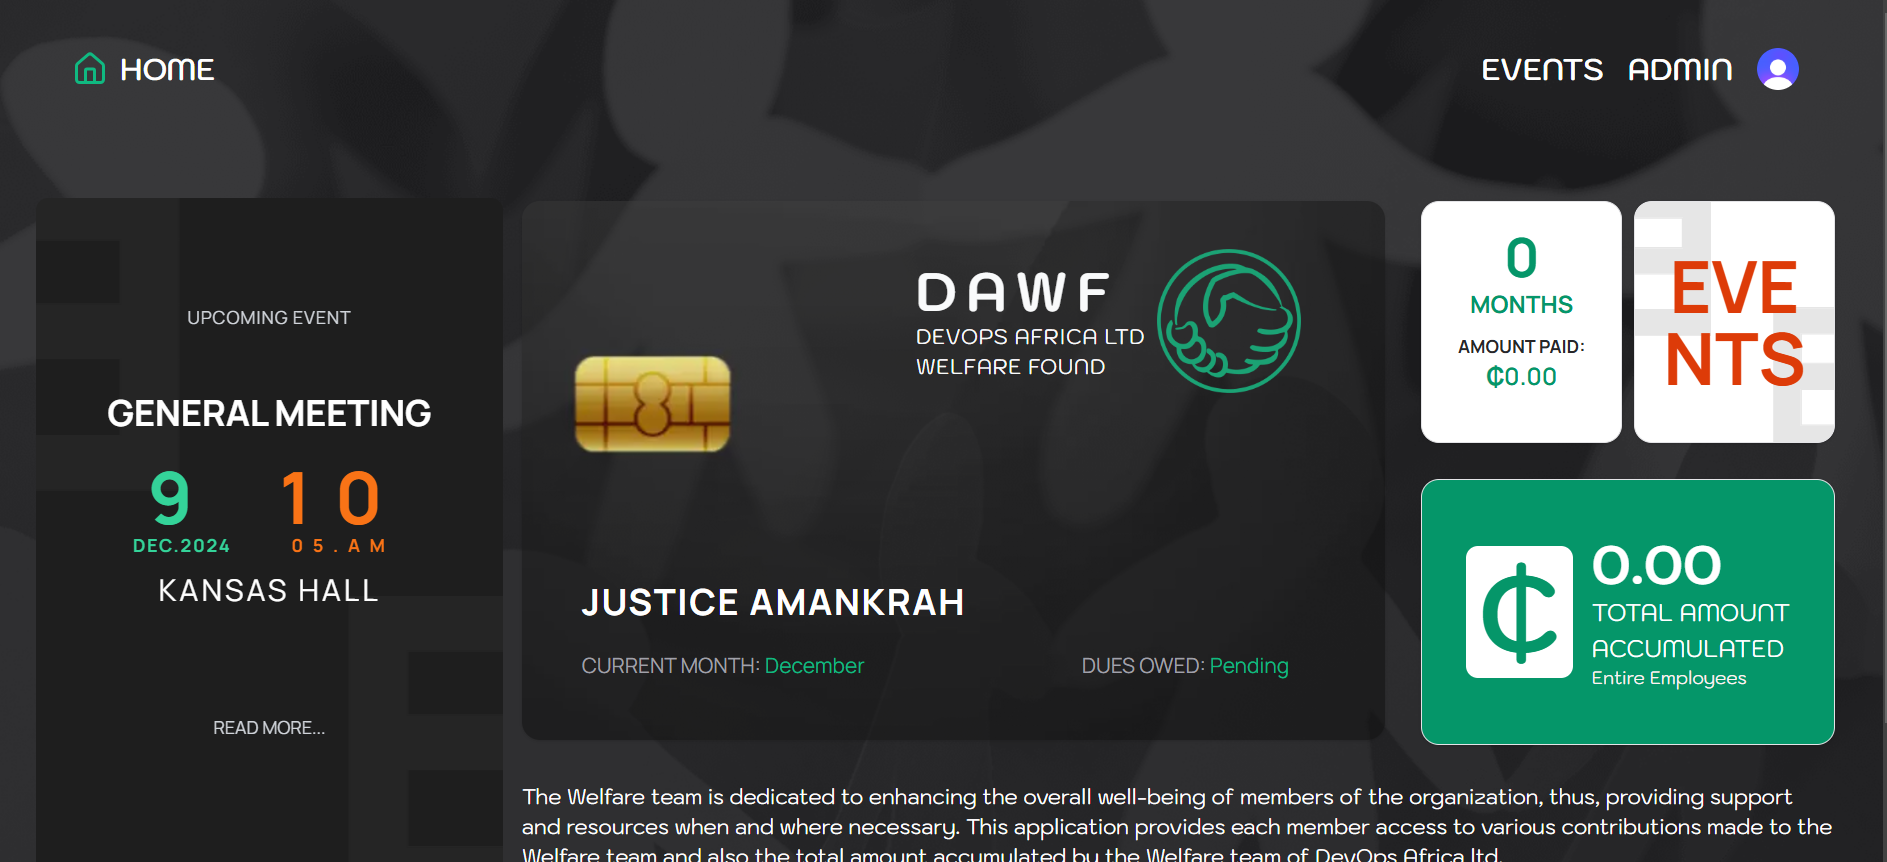
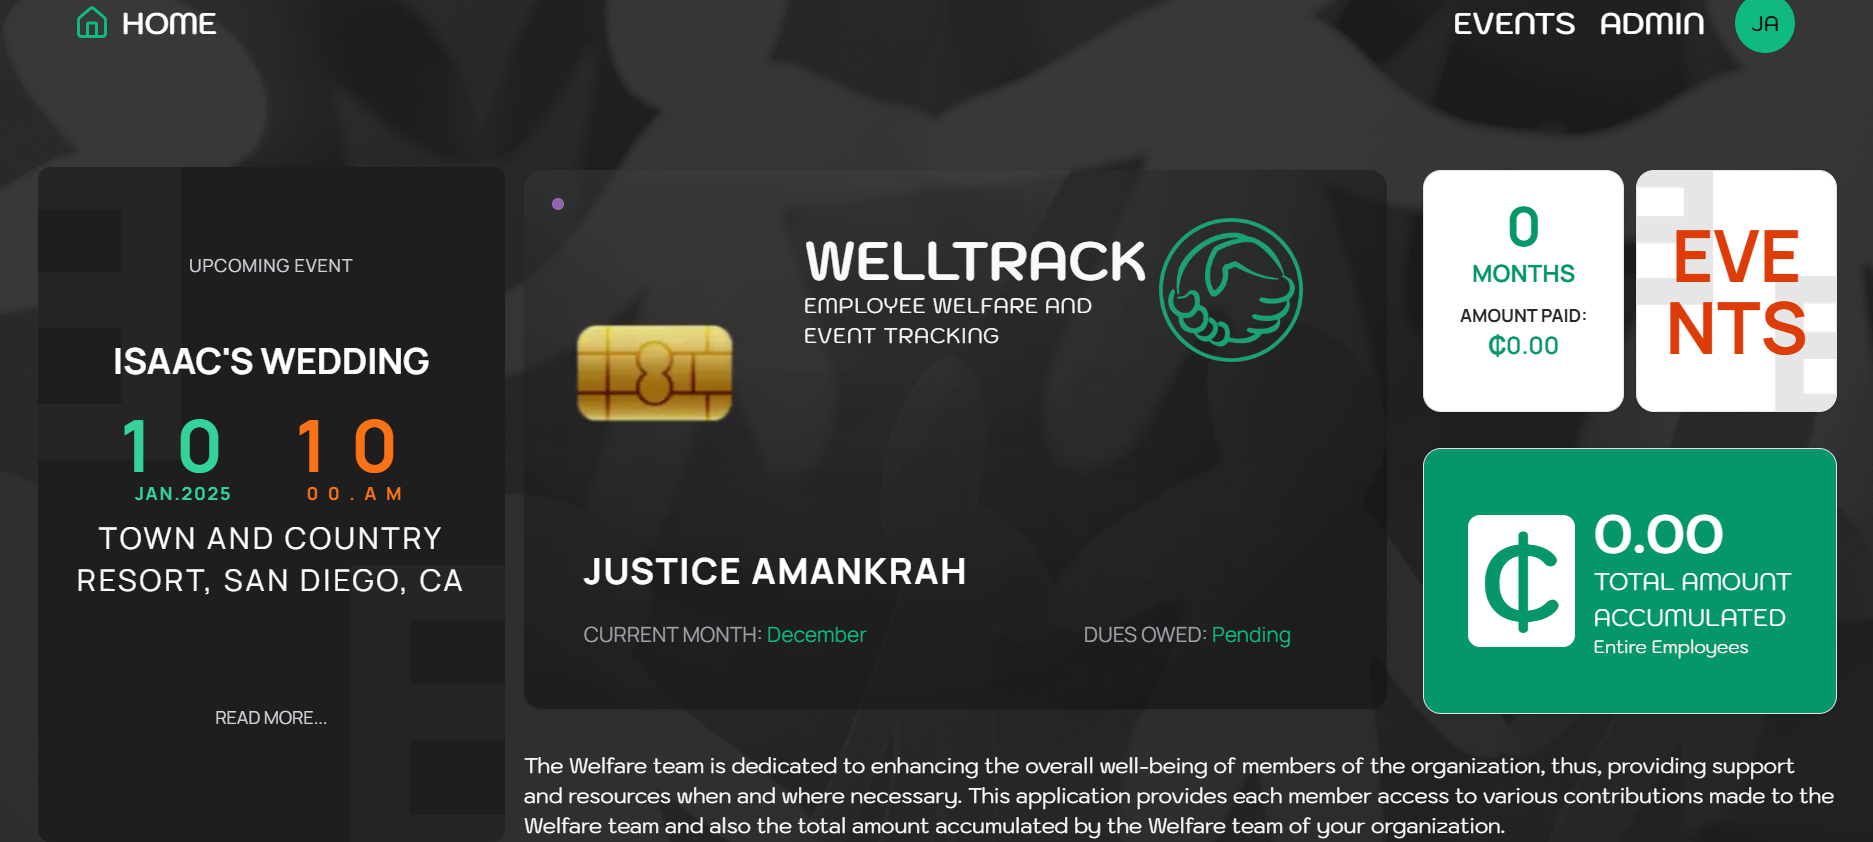
Added all the functionalities

diff --git a/components/auth/Signup.tsx b/components/auth/Signup.tsx
@@ -11,14 +11,14 @@ import { z } from "zod"
 import { signupSchema } from "@/lib/validation"
 import { useToast } from "@/hooks/use-toast"
 import { Loader } from "lucide-react"
-// import { useRouter } from "next/navigation"
+import { useRouter } from "next/navigation"
 import { authClient } from "@/lib/auth-client"
 
 
 
 const Signup = () => {
     const { toast } = useToast()
-    // const router = useRouter()
+    const router = useRouter()
 
     const form = useForm<z.infer<typeof signupSchema>>({
         resolver: zodResolver(signupSchema),
@@ -31,28 +31,6 @@ const Signup = () => {
     
       const onSubmit = async (values: z.infer<typeof signupSchema>) => {
         try {
-            // const response = await fetch("/api/users", {
-            //     method: "POST",
-            //     body: JSON.stringify(values),
-            // })
-
-            // const result = await response.json()
-            // console.log()
-            
-            // if (response.ok) {
-            //     toast({
-            //         title: "Success",
-            //         description: "Account created successfully",
-            //     })
-            //     router.replace("/login")
-            // }
-            // else if (result.error) {
-            //     toast({
-            //         title: "Error",
-            //         description: result.message,
-            //         variant: "destructive",
-            //     })
-            // }
             const {email, name, password} = values
             // eslint-disable-next-line @typescript-eslint/no-unused-vars
             const { data, error } = await authClient.signUp.email({
@@ -70,6 +48,7 @@ const Signup = () => {
                 // eslint-disable-next-line @typescript-eslint/no-unused-vars
                 onSuccess: (ctx) => { 
                   //redirect to the dashboard
+                  router.push("/sign-in")
                   form.reset();
                   // router.replace("/login")
                 }, 
@@ -93,7 +72,7 @@ const Signup = () => {
   return (
     <Card className="w-full max-w-md border-none bg-[#10A0748C] text-white overflow-y-auto max-h-full">
       <CardHeader>
-        <CardTitle className="text-2xl">Sign up for DAWF</CardTitle>
+        <CardTitle className="text-2xl">WELLTRACK</CardTitle>
         <p className="text-white/90">Create an account to get started</p>
       </CardHeader>
       <CardContent className="space-y-4">

diff --git a/app/layout.tsx b/app/layout.tsx
@@ -16,10 +16,10 @@ const kodchasan = Kodchasan({
 
 export const metadata: Metadata = {
   title: {
-    template: "%s | DAWF",
-    default: "DAWF",
+    template: "%s | WELLTRACK",
+    default: "WELLTRACK",
   },
-  description: "Generated by create next app",
+  description: "Empleyee Welfare and Event tracking",
 };
 
 export default function RootLayout({
@@ -28,27 +28,6 @@ export default function RootLayout({
   children: React.ReactNode;
 }>) {
   return (
-    // <ClerkProvider appearance={{
-    //   variables: {
-    //     colorBackground: "#10a07514",
-    //     colorPrimary: '#D23D0E',
-    //     colorText: '#fff'
-        
-        
-    //   },
-    //   elements: {
-    //     socialButtonsBlockButton:{
-    //       backgroundColor: '#fff'
-    //     }
-    //   },
-    //   layout: {
-    //     socialButtonsPlacement: 'bottom',
-        
-    //     // socialButtonsVariant: 'iconButton',
-    //     // termsPageUrl: 'https://clerk.com/terms'
-    //   }
-      
-    // }}>
     <html lang="en">
       <body
         className={`${kodchasan.className} antialiased bg-bg-img bg-cover bg-black object-cover bg-center bg-blend-luminosity bg-no-repeat`}
@@ -59,6 +38,5 @@ export default function RootLayout({
         <Toaster />
       </body>
     </html>
-    // </ClerkProvider>
   );
 }

diff --git a/components/shared/UserCard.tsx b/components/shared/UserCard.tsx
@@ -28,12 +28,12 @@ const UserCard = ({ userData }: UserAnalysisProps ) => {
             <div className="absolute right-2 top-2 md:right-14 lg:right-5 xl:right-14 md:top-8 lg:top-3 xl:top-8 z-20">
                 <div className="flex items-center justify-center gap-2 text-gray-50">
                     <div className="flex flex-col uppercase">
-                        <h1 className='text-4xl font-bold tracking-[0.18em]'>DAWF</h1>
-                        <p className='text-sm tracking-normal md:tracking-wide'>Devops Africa LTD <br /> Welfare Found</p>
+                        <h1 className='text-4xl font-bold'>WELLTRACK</h1>
+                        <p className='text-sm tracking-normal md:tracking-wide'>Employee Welfare and <br /> Event Tracking</p>
                     </div>
                     <Image
                         src="/assets/images/logo.png"
-                        alt="DAWF Logo"
+                        alt="WELLTRACK Logo"
                         width={400}
                         height={400}
                         className="object-contain size-20 md:size-24 lg:size-20 xl:size-24"

diff --git a/components/auth/AuthLayout.tsx b/components/auth/AuthLayout.tsx
@@ -30,12 +30,12 @@ const AuthLayout = ({ children, description, secondaryDescription, teamImage, cl
       <div className={cn("hidden lg:flex lg:flex-col lg:justify-center overflow-y-auto space-y-8 leading-10")}>
         <div className="flex items-center gap-4">
           <div>
-            <h2 className="text-2xl lg:text-5xl tracking-widest font-bold text-white">DAWF</h2>
-            <p className="text-sm text-white">DEVOPS AFRICA LTD <br /> WELFARE FUND</p>
+            <h2 className="text-2xl lg:text-5xl tracking-wider font-bold text-white">WELLTRACK</h2>
+            <p className="text-sm text-white">EMPLOYEE WELFARE AND EVENT TRACKING</p>
           </div>
           <Image
                 src="/assets/images/logo.png"
-                alt="DAWF Logo"
+                alt="WELLTRACK Logo"
                 width={400}
                 height={400}
                 className="object-contain size-24"

diff --git a/app/(root)/page.tsx b/app/(root)/page.tsx
@@ -107,7 +107,7 @@ const Dashboard = async () => {
               </div>
             </div>
             <p className='text-sm text-left text-white'>
-                The Welfare team is dedicated to enhancing the overall well-being of members of the organization, thus, providing support and resources when and where necessary. This application provides each member access to various contributions made to the Welfare team and also the total amount accumulated by the Welfare team of DevOps Africa ltd.
+                The Welfare team is dedicated to enhancing the overall well-being of members of the organization, thus, providing support and resources when and where necessary. This application provides each member access to various contributions made to the Welfare team and also the total amount accumulated by the Welfare team of your organization.
               </p>
           </div>
         </div>

diff --git a/app/(auth)/sign-up/page.tsx b/app/(auth)/sign-up/page.tsx
@@ -1,11 +1,11 @@
 import AuthLayout from "@/components/auth/AuthLayout"
-import Signup from "@/components/auth/SignUp"
+import Signup from "@/components/auth/Signup"
 
 const SignupPage = () => {
   return (
     <AuthLayout
       description="The Welfare team is dedicated to enhancing the overall well-being of members of the organization, thus, providing support and resources when and where necessary."
-      secondaryDescription="This application provides each member access to various contributions made to the Welfare team and also the total amount accumulated by the Welfare team of DevOps Africa ltd."
+      secondaryDescription="This application provides each member access to various contributions made to the Welfare team and also the total amount accumulated by the Welfare team of your organization."
       teamImage="/assets/images/team.png"
       className="h-[32.5rem]"
       flexStart

diff --git a/app/(auth)/sign-in/page.tsx b/app/(auth)/sign-in/page.tsx
@@ -6,7 +6,7 @@ const LoginPage = () => {
   return (
     <AuthLayout
       description="The Welfare team is dedicated to enhancing the overall well-being of members of the organization, thus, providing support and resources when and where necessary."
-      secondaryDescription="This application provides each member access to various contributions made to the Welfare team and also the total amount accumulated by the Welfare team of DevOps Africa ltd."
+      secondaryDescription="This application provides each member access to various contributions made to the Welfare team and also the total amount accumulated by the Welfare team of your organization."
       teamImage="/assets/images/team.png"
     >
       <Login />

diff --git a/app/(auth)/wrong-email/page.tsx b/app/(auth)/wrong-email/page.tsx
@@ -11,7 +11,7 @@ const WrongEmailUsed = () => {
     }
   return (
     <div className='min-h-screen flex flex-col w-full bg-[#0D0D0D] justify-center items-center max-w-7xl mx-auto space-y-5'>
-        <h1 className='text-center text-2xl text-white'>Wrong Email Used, Please use your devops mail.</h1>
+        <h1 className='text-center text-2xl text-white'>Wrong Email Used, Please use your organization mail.</h1>
         <Button className='text-blue-50 text-2xl p-4 py-6 animate-pulse' onClick={handleClick}>
             Go to Sign In Page
         </Button>

diff --git a/components/shared/Footer.tsx b/components/shared/Footer.tsx
@@ -1,18 +1,10 @@
-import Image from 'next/image'
 import React from 'react'
 
 const Footer = () => {
   return (
     <footer className="flex items-center gap-4 p-4 2xl:px-80">
-        <Image
-          src="/assets/images/DevOps-africa.png"
-          alt="DevOps Africa Team Logo"
-          width={32}
-          height={32}
-          className="object-contain"
-        />
         <p className="text-xs text-white">
-          Devops Africa Team © All Rights Reserved.
+        WELLTRACK © All Rights Reserved.
         </p>
       </footer>
   )

diff --git a/lib/validation.ts b/lib/validation.ts
@@ -96,7 +96,7 @@ export const EventCreateSchema = z.object({
   title: z.string().min(2, { message: "Title must be at least 2 characters" }),
   start: z.string(),
   end: z.string(),
-  year: z.number().int().min(2020, { message: "Year must be 2020 or later" }),
+  year: z.number().int().min(2024, { message: "Year must be 2020 or later" }),
   month: z.number().int().min(1, { message: "Month must be 1-12" }),
   quarter: z.number().int().min(1).max(4),
   description: z.string().optional(),

diff --git a/components/admin/AddEvent.tsx b/components/admin/AddEvent.tsx
@@ -280,8 +280,8 @@ const EventAdd = ({ update, event, userId }: EventAddProps) => {
                   <Input 
                     type="number" 
                     {...field} 
-                    min={2020}
-                    max={new Date().getFullYear()}
+                    min={2024}
+                    
                   />
                 </FormControl>
                 <FormMessage />

diff --git a/components/auth/Login.tsx b/components/auth/Login.tsx
@@ -65,7 +65,7 @@ const Login = () => {
   return (
     <Card className="border-none bg-[#10A0748C] text-white">
       <CardHeader>
-        <CardTitle className="text-2xl">Sign in to DAWF</CardTitle>
+        <CardTitle className="text-2xl">Sign in to WELLTRACK</CardTitle>
         <p className="text-white/90">Welcome back! Please sign in to continue</p>
       </CardHeader>
       <CardContent>
